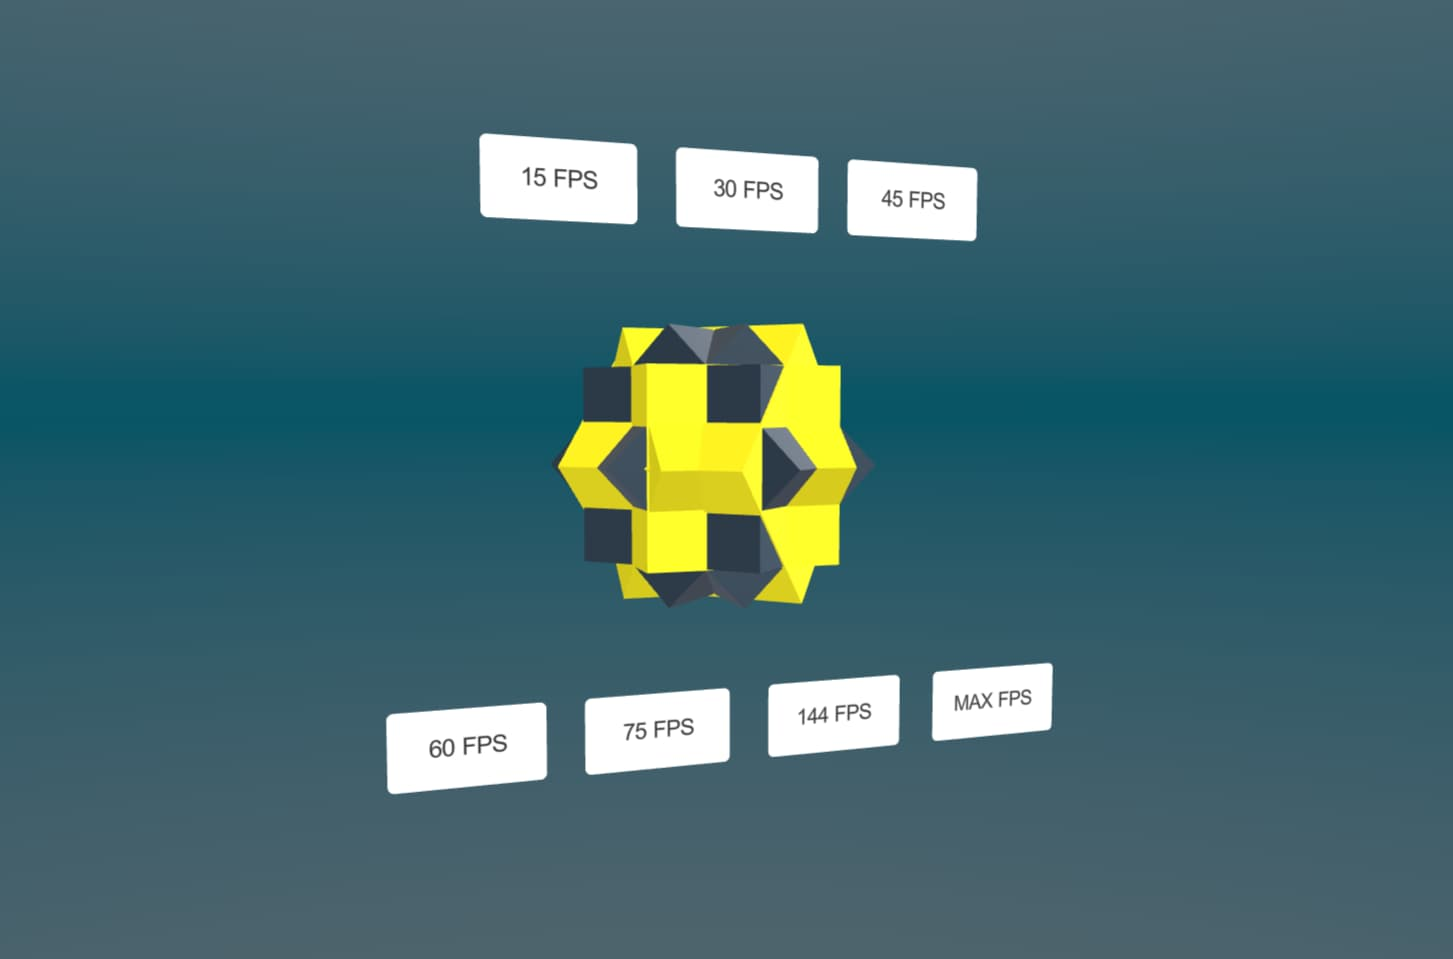
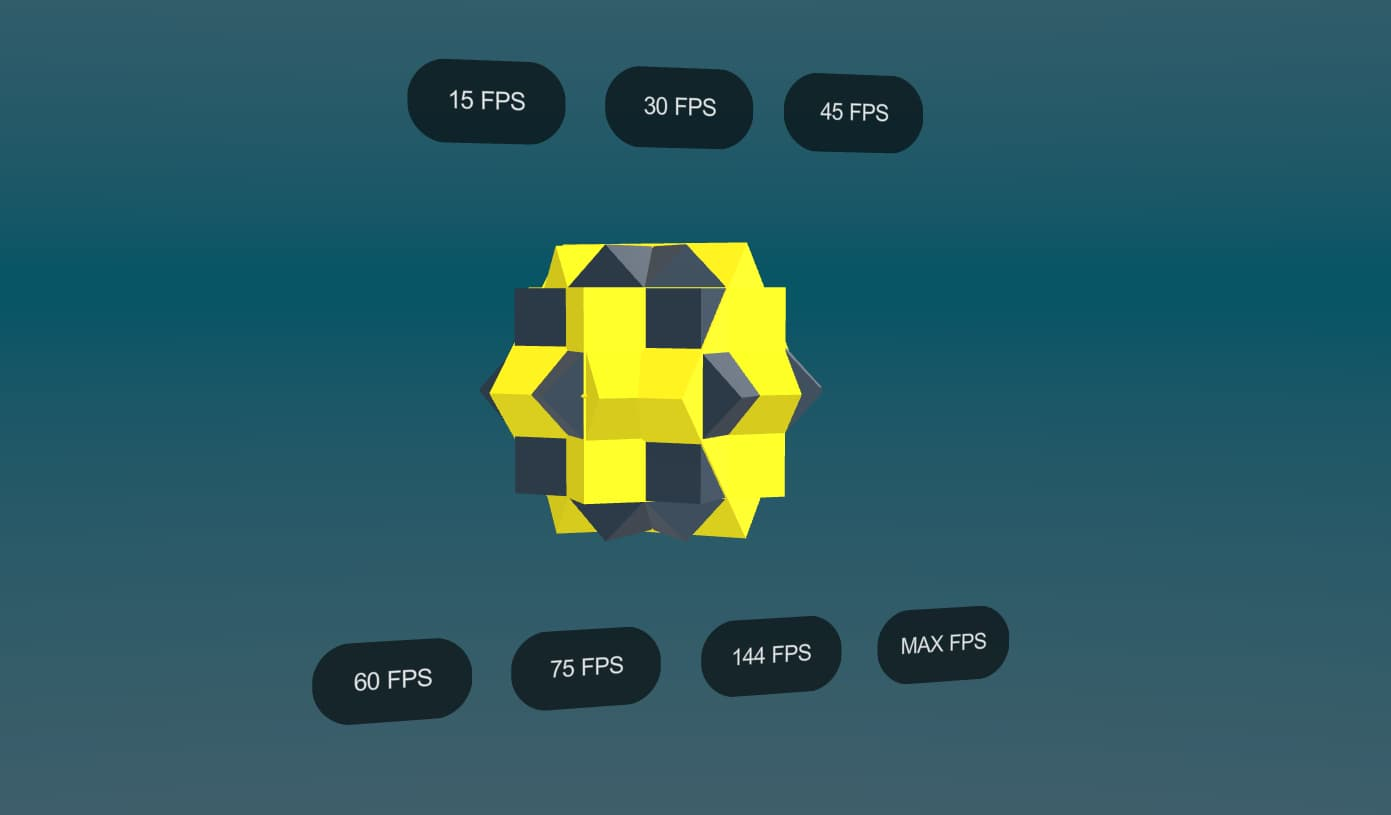
update portion of READMEs and SampleInfos ; new thumbnail for framerate sample
https://linear.app/needle/issue/NE-5610/

Changed region(s): [[0.0927, 0.0, 0.8656, 0.6748], [0.2164, 0.6748, 0.7419, 0.8896], [0.7728, 0.0, 0.8347, 0.0307]]

diff --git a/package/Runtime/Configurator/README.md b/package/Runtime/Configurator/README.md
@@ -1,24 +1,16 @@
 # Configurator
 
-If we want to showcase the variety of a given product it's best to make a configurator that can serve as a way how to present your product to your customers.
-
-This sample is focused on the configurator logic, other samples can showcase better user input, such as the Hotspot sample or VR Hands. For the best user experience, it's best to choose the type of input based on the application's concept and target platform.
-
----
-
-This sample showcases how to switch between
- - GameObjects
- - Materials
+This sample showcases how to switch between Objects and Materials.
 
 Every switching mechanism has a base API to be called from outside of the object. That is crucial for the User input.
 
-All switching mechanisms are based on the same class called `Configurator`. Which has this API to be interacted with:
+All switching mechanisms are based on the same class called `Configurator`, which has these methods:
  - next()
  - previous()
  - getSize()
  - currentIndex
 
-It has also OnShow and OnHide events. This is important if we want to chain configurators after each other. A good example would be if we would have an object configurator where we would be switching between a plane and a car. And when we enable a car, it would also show that you can change the paint job.
+It has also OnShow and OnHide events. This is important if we want to chain configurators after each other. A good example would be if we would have an object configurator where we would be switching between a plane and a car. When a user selects a car, it also enables the paint job configuration.
 
 If we want a configurator to be activated and deactivated at the same time as a parent, set the `Bind to parent` checkbox on every configurator.
 
@@ -30,13 +22,9 @@ If we want a configurator to be activated and deactivated at the same time as a 
 
 ## Object Configurator
 
-Switches game objects by turning them off and on based on the current index.
+Switches objects by turning them off and on based on the current index. The target object has to have the `ConfigurationElement` component on itself.
 
 You can manually define the objects by populating the array in the editor or you can enable `Auto detect children` which searches for the objects in the configurator's children. Mind that it searches only for 1 depth in the hierarchy.
-
-You can't add just game objects, since we want to support configurator chaining.
-
-For simple objects that are not configurators, please add the `ConfigurationElement` to them so the `ObjectConfigurator` recognizes them.
 
 ### Sync Configurator Transform
 
@@ -60,7 +48,7 @@ And lastly, populate your Material array with the materials you want on your mod
 
 You can always extend the Configurator and add your own.
 
-Look at the Object Configurator as a reference on how to implement it. Mind always calling the `super. Method()` so the original logic still works. Even for events like `awake` or `start`.
+Look at the Object Configurator as a reference on how to implement it. Mind always calling the `super.method()` so the original logic still works. Even for events like `awake` or `start`.
 
 ---
 

diff --git a/package/Runtime/AnimatorController/README.md b/package/Runtime/AnimatorController/README.md
@@ -1,14 +1,15 @@
 # Animator Controller
 
-The Animator Controller is a state machine for animations. This way you can define that from a given animation you can transition to another ONLY under certain conditions.
+The Animator Controller is a state machine for animations, allowing you to specify that a transition between animations can occur only when certain conditions are met.
 
-Often these conditions are:
+These conditions are:
  - Trigger - "One-use ticket"
     - Example: "Jump" or "Attack"
  - Boolean - "true or false state"
     - Example: "IsGrounded" or "IsAttacking"
  - Numbers which you can compare to
     - less, more, equel... 
+    - Example: "Speed" or "Elevation"
 
 You can also not use any conditions and just transition from one animation to another by just specifying how to blend between these two animations. This way you can chain them after each other in a sequence. 
 
@@ -16,9 +17,9 @@ Here we have two animations, open and close, and we jump between them with a tri
 
 You can open this Animator Controller asset located at `AnimatorController/Assets/Crate AnimatorController` by double clicing on it.
 
-Mind that you can click on the states and the transitions to see *their settings* in the inspector.
+Mind that you can click on the states and the transitions (the white arrows) to see *its settings* in the inspector.
 
-Very important is to not forget about animation loop time. In other words if the animation will be looping or if it will stop at the last frame and hang there. You can set the `loop time` boolean directly on an animation file or in the animation tab of the model import settings. For looping animations such as walking, you want to set it to true. But for animation such as close door, you don't want the door to be endlessly closing.
+It is very important not to forget about animation loop time. In other words, if the animation will be looping or if it will stop at the last frame and hang there. You can set the `loop time` boolean directly on an animation file or in the animation tab of the model import settings. For looping animations such as walking, you want to set it to true. But for animation such as "close door", you don't want the door to be endlessly closing.
 
 For example here in this sample, we don't want any looping, therefore both the animations have the loop time disabled. 
 

diff --git a/package/Runtime/UI/README.md b/package/Runtime/UI/README.md
@@ -2,7 +2,7 @@
 
 These samples showcase the translation of Unity's UGUI system to Needle Engine components. 
 
-A number of component types like panels, buttons, text are supported.  
+Essential components like images, buttons and texts are supported.  
 Events on buttons can directly be set to trigger events on other components.  
 
 Read more about [supported UI components](https://engine.needle.tools/docs/component-reference.html#ui) in our docs.
@@ -22,7 +22,13 @@ You can add a `CanvasData` component to define how your 3D canvas should act in 
 Text components should reference a Font asset for export.  
 You can import a font by adding the `.ttf` or `.otf` file into your project and assigning it to your Text components.  
 
-To use font styles (bold/italic), make sure that you also have matching font assets – for example, `Arial-bold`.  
-This also applies to [Rich Text](https://docs.unity3d.com/Packages/com.unity.ugui@1.0/manual/StyledText.html). 
+To use font styles (bold/italic), make sure that you also have matching font assets with correct names:
+- `Ariel-Regular`
+- `Ariel-Bold`
+- `Ariel-Italic`
+- `Ariel-BoldItalic`
 
-By default, all characters referenced on all Text objects in your scene are exported. If you want to set text dynamically at runtime, you can extend this set:  add an `Font Additional Characters` component to your scene to specify what extra characters you want to export.  
+This also applies when using [Rich Text](https://docs.unity3d.com/Packages/com.unity.ugui@1.0/manual/StyledText.html).
+If a font is missing in the build, try adding an empty text with that font to include that specific font.
+
+By default, all characters referenced on all Text objects in your scene are exported. If you want to set text dynamically at runtime, you can extend this set: add an `Font Additional Characters` component to your scene to specify what extra characters you want to export.  

diff --git a/package/Runtime/Networking/README.md b/package/Runtime/Networking/README.md
@@ -3,9 +3,9 @@
 Needle is equipped with a built-in networking solution right at the core. We provide components for common use cases and make it easy to network variables with just one typescript decorator. For more information, please refer to the [networking documentation](https://engine.needle.tools/docs/networking.html).
 
 ## Networking Animator
-Synchronize an Animator with writing code: the SyncedAnimator component will handle this for your and synchronize animation state to all users in the same networking session.
+Synchronizes an Animator without writing code! The SyncedAnimator component will handle this for your and synchronize animation state to all users in the same networking session.
 
-[Explore it here.](https://engine.needle.tools/samples/synced-animator/)
+[Explore it here.](https://engine.needle.tools/samples/synchronized-animator/)
 
 ## Auto Network (@syncField)
 Showcases how to synchronize an array of strings. The purpose here is to educate on the [@syncField decorator](https://engine.needle.tools/docs/reference/typescript-decorators.html#examples) and that it also supports arrays (as well as strings, bools, numbers...)
@@ -30,9 +30,9 @@ Send JSON and Binary messages and delete stored state from the server.
 ## Networking Player
 Synchronize your player in a multiplayer experience.
 
-[Explore it here.](https://engine.needle.tools/samples/networking_players)
+[Explore it here.](https://engine.needle.tools/samples/networking-players)
 
 ## Networking Rooms
 A sample that lets you explore what rooms are and how they work.
 
-[Explore it here.](https://engine.needle.tools/samples/networking_rooms/)
+[Explore it here.](https://engine.needle.tools/samples-uploads/networking_rooms/)

diff --git a/package/Runtime/Multi-Scenes/README.md b/package/Runtime/Multi-Scenes/README.md
@@ -1,20 +1,7 @@
 # Multi-scene
 
-This sample is comprised of 2 scenes. 
+Scene is a collection of objects, while it also has extra data like lightamps, skybox and fog.
 
-### Utilizing prefabs
-Scene name: `Multi Scenes (Prefabs)`
+A scene is exported as a separate .glb file and thus it means the initial scene can be as slim as possible overall decreasing the initial download time.
 
-Prefabs are objects which contain components. Objects can have children.
-
-### Utilizing scenes
-scene name: `Multi Scenes`
-
-The scene is a collection of such objects, but it has extra information and built-in features like lightmaps and the embedded skybox. So if you want to bake lighting, it is ideal to use scenes.
-
----
-
-In reality, both scenes and prefabs are exported as separate .glb files and since they are separate, it means this should significantly reduce the initial download size. This is a recommended way how to handle large applications in a single needle instance.
-
-Under the hood, the sample utilizes the [**AssetReference**](https://engine.needle.tools/docs/scripting.html#assetreference-and-addressables) which ensures proper content handling and asynchronous loading. 
-
+Under the hood, the sample utilizes the [**AssetReference**](https://engine.needle.tools/docs/scripting.html#assetreference-and-addressables) class which ensures proper content handling and asynchronous loading.

diff --git a/package/Runtime/CarPhysics/README.md b/package/Runtime/CarPhysics/README.md
@@ -1,6 +1,12 @@
 # Car Physics
 Rapier is a powerful engine containing raycast vehicle physics logic which this sample utilizes.
 
+Car physics is comprised of two elements, the body and the wheels. It is a good practice to separate the 3D model of the wheel from the wheel physics object.
+
+If the car behaves in an unstable manner, please refer to the values in the `CarPhysics` and `CarWheel` scripts in this sample.
+You can also use `debugcarphysics` and `debugwheel` debug parameters to visualize the armature of the car.
+
+
 ## License
 ```
 Car Model
@@ -8,12 +14,7 @@ Daniel Zhabotinsky
 https://sketchfab.com/3d-models/60s-classic-american-suv-low-poly-model-22015d1863d6455aa31cfd738b972c50
 CC-BY (https://creativecommons.org/licenses/by/4.0/)
 
-Traffic Props
-Daniel Zhabotinsky
-https://sketchfab.com/3d-models/light-poles-low-poly-prop-set-19d09422871a4c43ad2fdcb058833a0e
-CC-BY (https://creativecommons.org/licenses/by/4.0/)
-
-Street Polls
+Highway Stuff - Low poly prop set
 Daniel Zhabotinsky
 https://sketchfab.com/3d-models/highway-stuff-low-poly-prop-set-510081f7ad4e48898f40c9dcec895438
 CC-BY (https://creativecommons.org/licenses/by/4.0/)

diff --git a/package/Runtime/DeviceSensors/README.md b/package/Runtime/DeviceSensors/README.md
@@ -2,9 +2,13 @@
 
 ## Gyroscope
 
-Gyroscope sensor is access via [RelativeOrientationSensor](https://developer.mozilla.org/en-US/docs/Web/API/RelativeOrientationSensor) API or [DeviceOrientation](https://developer.mozilla.org/en-US/docs/Web/API/Device_orientation_events/Detecting_device_orientation). Where the later is a fallback api with wider platform support.
+This sample provides a Gyroscope class that wraps the [RelativeOrientationSensor](https://developer.mozilla.org/en-US/docs/Web/API/RelativeOrientationSensor) API and [DeviceOrientation](https://developer.mozilla.org/en-US/docs/Web/API/Device_orientation_events/Detecting_device_orientation). Where the later is a fallback method with wider platform support.
 
 If the device doesn't support any implemented method the `onfail` event is raised on the Gyroscope.
+
+## Device Sensors
+
+Explainer sample that shows how to handle gyroscope support.
 
 ## Panorama Controls
 

diff --git a/package/Runtime/MaterialXNodes/README.md b/package/Runtime/MaterialXNodes/README.md
@@ -4,6 +4,8 @@ Material X is a widely supported shader system that allows for easy shader defin
 
 It supports both node graphs for easy iteration and a code-driven approach, enabling you to construct shaders with an approachable high-level API directly in JavaScript/TypeScript.
 
-You can download the Material X editor from [GitHub](https://github.com/AcademySoftwareFoundation/MaterialX).
+There are more options when choosing a Material X editor:
+- [QuiltiX](ttps://github.com/PrismPipeline/QuiltiX)
+- [Official editor](https://github.com/AcademySoftwareFoundation/MaterialX/blob/main/documents/DeveloperGuide/GraphEditor.md)
 
-For more information on three.js feature coverage, see this [GitHub issue](https://github.com/mrdoob/three.js/issues/24674).
+For more information on the three.js feature coverage, see this [GitHub issue](https://github.com/mrdoob/three.js/issues/24674).

diff --git a/package/Runtime/HTMLCustomXRButtons/README.md b/package/Runtime/HTMLCustomXRButtons/README.md
@@ -1,9 +1,7 @@
 # Custom XR Buttons
 
-AR and VR can be started from a regular website when clicking on the respective button. 
+You can enter AR and VR by calling methods on the WebXR component from an HTML or UI button, it is essential that the call originates from a click interaction.
 
-Using the `WebXR` component adds these buttons automatically on supported devices, and you can choose if you want to allow AR, VR, or both.  
+On the WebXR component, you need to disable the `Create AR Button` and `Create VR Button` options which control the presence of the built-in buttons in the needle menu.
 
-## Customizing the Buttons
-
-The buttons can be customized by creating your own buttons and connecting them to the respective events on the `WebXR` component. The relevant code is in `CustomXRButtons.ts`.
+See the relevant code in `CustomXRButtons.ts`.

diff --git a/package/Runtime/USDZExport/README.md b/package/Runtime/USDZExport/README.md
@@ -14,21 +14,25 @@ To be able to have a cross-platform experience, there are [Everywhere Actions](h
 
 # Samples
 
-## USDZ Interactivity
+## Interactivity (Everywhere Actions)
 
 Showcases the basic actions in isolated use cases.
 
-## USDZ Characters
+## Characters (Everywhere Actions)
 
 By using relative movement actions, you are able to make minigames with characters like these that work everywhere, including iOS AR.
 
-## USDZ Animator
+## Animator (Everywhere Actions)
 
 Skinned mesh animated character working everywhere.
 
-## USDZ Product
+## Configurator (Everywhere Actions)
 
 Simple configurator showcasing high-quality assets and materials for both the web and automatic conversion to QuickLook / USDZ.
+
+## ColorMenu (Everywhere Actions)
+
+Demonstrates a mini color configurator with HUD UI controls.
 
 ## Musical Instrument
 

diff --git a/package/Runtime/Canvas Texture with P5js/README.md b/package/Runtime/Canvas Texture with P5js/README.md
@@ -1,9 +1,8 @@
 # P5.js integration
 
 ## About p5.js
-> p5.js is a JavaScript library for creative coding, with a focus on making coding accessible and inclusive for artists, designers, educators, beginners, and anyone else! p5.js is free and open-source because we believe software, and the tools to learn it, should be accessible to everyone.
-
-*(From [p5js.org](https://p5js.org/))*
+*p5.js is a JavaScript library for creative coding, with a focus on making coding accessible and inclusive for artists, designers, educators, beginners, and anyone else! p5.js is free and open-source because we believe software, and the tools to learn it, should be accessible to everyone.*
+**(From [p5js.org](https://p5js.org/))**
 
 The drawing and p5.js integration is located in the `index.html` inside of the web project.
 (`WebProjects~/Canvas_P5js`)

diff --git a/package/Runtime/iFrameContent/README.md b/package/Runtime/iFrameContent/README.md
@@ -1,7 +1,8 @@
 # Embedding other websites
 
-Content from other websites can be embedded into 3D scenes using iframes. These have a number of limitations, including which permissions the embedded website has (for example AR, VR, audio playback, and so on).  
+Content from other websites can be overlayed on top of 3D scenes using iframes. Make sure that your concept fits.
 
 ## Limitations
 
 iframes are rendered using CSS3D. This is currently not supported by browsers in VR. If you want to play videos in VR or AR, use a `VideoPlayer` component with a video file.
+Also mind that when embedding a website, you need to manually allow for certain permissions. See [the documentation](https://developer.mozilla.org/en-US/docs/Web/HTML/Element/iframe).
